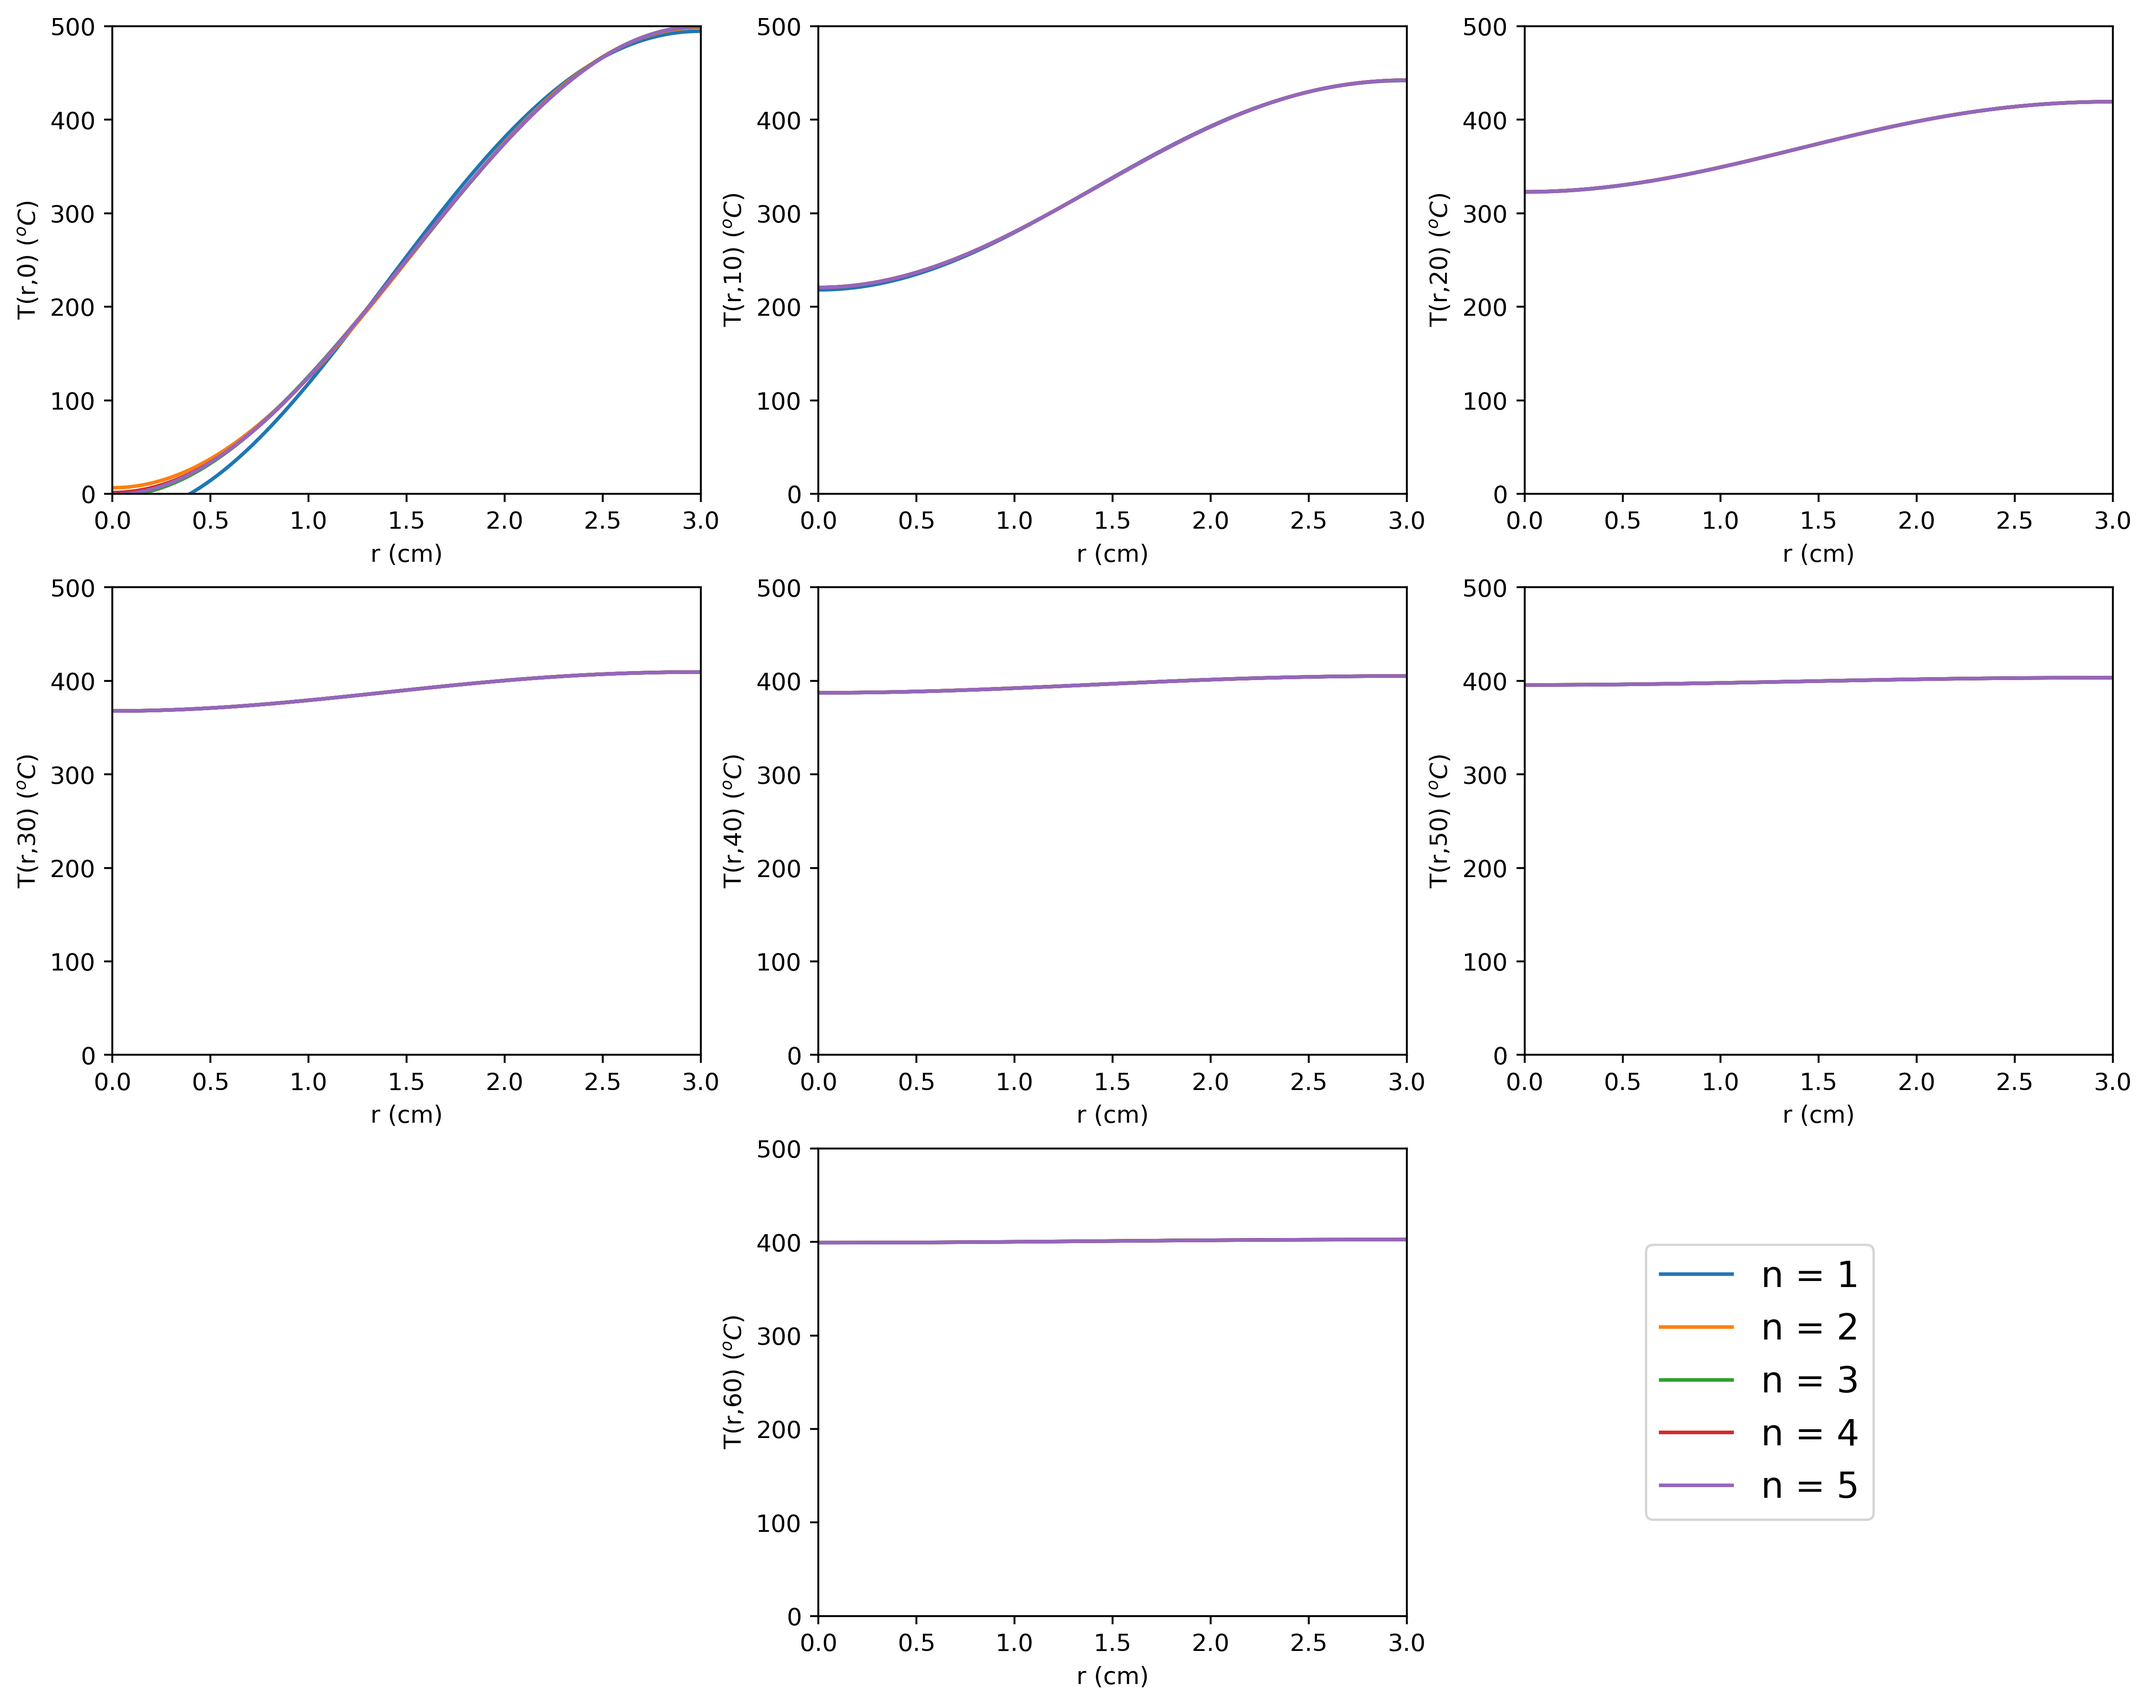
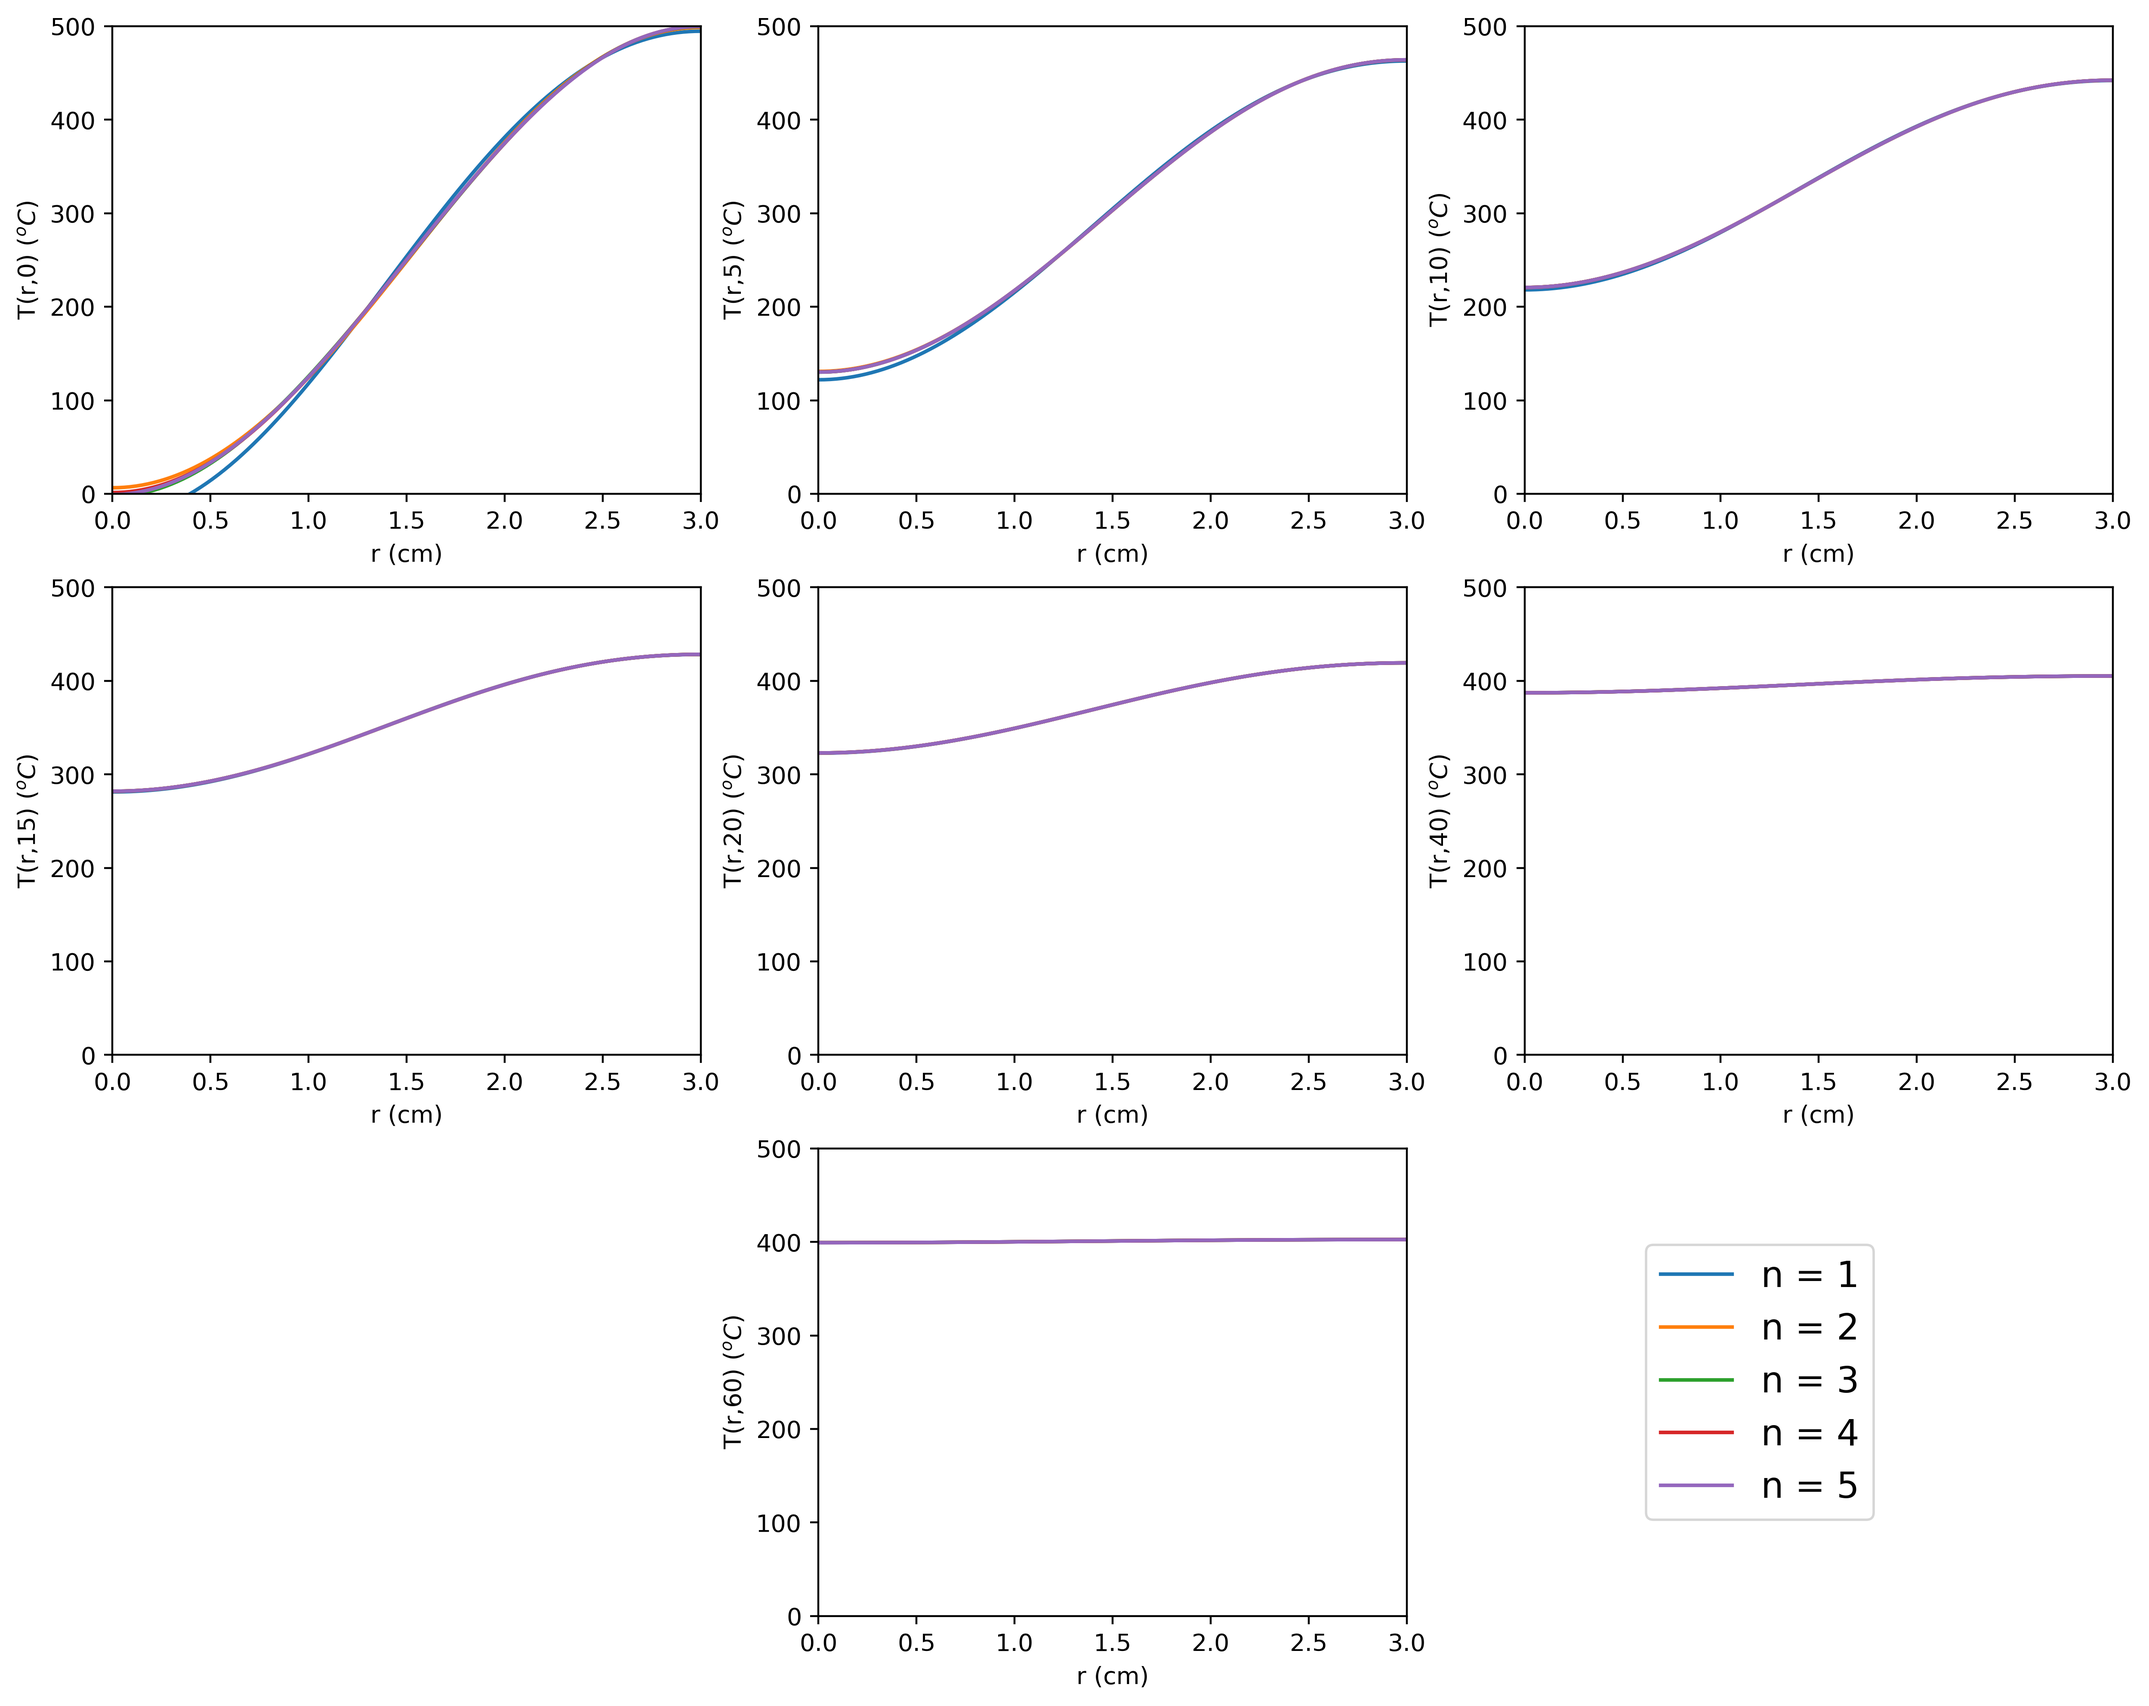
added time step study

diff --git a/main.py b/main.py
@@ -2,18 +2,17 @@ import plot
 import export
 import finitedifference as fd
 from analyticaltemp import AnalyticalTemperature
+from inputparameters import T0, R
 from data import *
 
 import numpy as np
 import matplotlib.pyplot as plt
 
-#import finitedifference as fd
-
 #function to calculate relative change
 def relChange(x,y):
     return np.max(np.abs((x-y)/x))
 
-#create analytical temperature object
+""" #create analytical temperature object
 analytical_temperature = AnalyticalTemperature()
 
 #Plotting and printing eigenvalues
@@ -30,15 +29,21 @@ for i in range(1,n_terms+1):
 c_n = analytical_temperature.getCn()
 export.cn(c_n) 
 
-#analytical convergence 
+#analytical convergence
+rel_change = np.zeros([n_timestamps, n_terms-1])
+T_temp = 0
 for i in range(n_timestamps):
     for j in range(1, n_terms+1):
         T_anal = analytical_temperature.compute(r_analytical, timestamps[i], j)
-        axs_analytical_list[i].plot(r_analytical*m_to_cm, T_anal)
+        T_analytical[:,i] = T_anal
+        axs_analytical_list[i].plot(r_analytical*m_to_cm, T_analytical[:,i])
         if j != 1:
-            rel_change[i,j-2] = relChange(T_temp, T_anal)
+            rel_change[i,j-2] = relChange(T_temp, T_analytical[:,i])
+            if i==0 and j == 3:
+                print(T_temp)
+                print("hey")
+                print(T_analytical[:,i])
         T_temp = T_anal
-    T_analytical[:,i] = T_anal
 
 export.relChange(rel_change) 
 plt.legend(legend_T_analytical_individual, loc = "center", bbox_to_anchor = (1.6, 0.5), fontsize = 15)
@@ -46,44 +51,71 @@ plt.savefig("Cn.png", bbox_inches='tight', dpi = 400)
 plt.close()
 
 #plotting analytical temperature
-plot.analytical(T_analytical) 
+plot.analytical(T_analytical)  """ 
 
-#T numerical figure
+
+#Grid Refinment
 fig_grid_ref, axs_grid_ref, axs_grid_ref_list = plot.seven_subplots()
-plt.savefig("new.png", bbox_inches='tight', dpi = 400)
-
-""" #numerical temperature evaluation
+legend_grid = []
 n_elements = 2
-delta_r = R/n_elements
+delta_r = 0
 n_grid_trials = 5
 delta_t = 0.1
 t = np.linspace(0, t_max, int(t_max/delta_t) + 1)
-plt.figure(0)
-legend_T = []
+T_converged = 0
 
 for i in range(n_grid_trials):
-    delta_r = R/n_elements
     r = np.linspace(0, R, n_elements+1)
-    T = fd.computeT(r, t, delta_r, delta_t)
-    plt.plot(r, T[:,50])
-    legend_T.append("n = " + str(n_elements))
+    delta_r = R/n_elements
+    T_numerical = np.empty([len(r), len(t)])
+    T_numerical = fd.computeT(r, t, delta_r, delta_t)
+    
+    #plot
+    for j in range(len(timestamps)):
+        axs_grid_ref_list[j].plot(r*m_to_cm, T_numerical[:,int(timestamps[j]/delta_t)])
+    exp = i+1
+    legend_grid.append("$\Delta$" + "r =" + "$3\\times2^{-}$" rf"$^{exp}$" + " (cm)")
     n_elements *= 2
+    
+plt.legend(legend_grid, loc = "center", bbox_to_anchor = (1.6, 0.5), fontsize = 15)
+plt.savefig("grid_ref.png", bbox_inches='tight', dpi = 400)
+plt.close()
 
-plt.yticks(np.arange(0, 501, step=100))
-plt.legend(legend_T)
-plt.savefig("1.png")
 
-plt.figure(1)
-legend_T2 = [] """
+#time step study
+n_elements = 32
+delta_r = R/n_elements
+r = np.linspace(0, R, n_elements+1)
 
-""" delta_t = 0.028
-for i in range(3):
+#bad time step
+plt.figure()
+delta_t = 0.2
+t = np.linspace(0, t_max, int(t_max/delta_t) + 1)
+T_numerical = np.empty([len(r), len(t)])
+T_numerical = fd.computeT(r, t, delta_r, delta_t)
+plt.xlabel("r (cm)")
+plt.ylabel("T(r,10) ($^oC$)")
+plt.plot(r*m_to_cm, T_numerical[:, 50])
+plt.savefig("bad time_step.png", bbox_inches='tight', dpi = 400)
+plt.close()
+
+#good time step
+fig_time_step, axs_step, axs_time_step_list = plot.seven_subplots()
+legend_time_step = []
+delta_t_list = np.array([0.1, 0.05])
+
+for i in range(len(delta_t_list)):
+    delta_t = delta_t_list[i]
     t = np.linspace(0, t_max, int(t_max/delta_t) + 1)
-    T = fd.computeT(r, t, delta_r, delta_t)
-    plt.plot(t, T[int(len(r)/2),:])
-    legend_T2.append("delta_t = " + str(delta_t))
-    delta_t /= 2
+    T_numerical = np.empty([len(r), len(t)])
+    T_numerical = fd.computeT(r, t, delta_r, delta_t)
 
-plt.yticks(np.arange(0, 501, step=100))
-plt.legend(legend_T2)
-plt.savefig("2.png") """  
+    #plot
+    for j in range(len(timestamps)):
+        axs_time_step_list[j].plot(r*m_to_cm, T_numerical[:,int(timestamps[j]/delta_t)])
+    legend_time_step.append("$\Delta$" + "t = " + str(delta_t) + " (s)")
+
+plt.legend(legend_time_step, loc = "center", bbox_to_anchor = (1.6, 0.5), fontsize = 15)
+plt.savefig("time_step.png", bbox_inches='tight', dpi = 400)
+plt.close()
+

diff --git a/data.py b/data.py
@@ -5,9 +5,8 @@ n_terms = 5
 n_timestamps = 7
 n_elements_analytical = 100
 t_max = 60
-timestamps = np.linspace(0, t_max, n_timestamps)
+#timestamps = np.linspace(0, t_max, n_timestamps)
+timestamps = np.array([0, 5, 10, 15, 20, 40, 60])
 r_analytical = np.linspace(0, R, n_elements_analytical+1)
 T_analytical = np.empty([n_elements_analytical+1, n_timestamps])
-rel_change = np.empty([n_timestamps, n_terms - 1])
-T_temp = 0
 m_to_cm = 100
